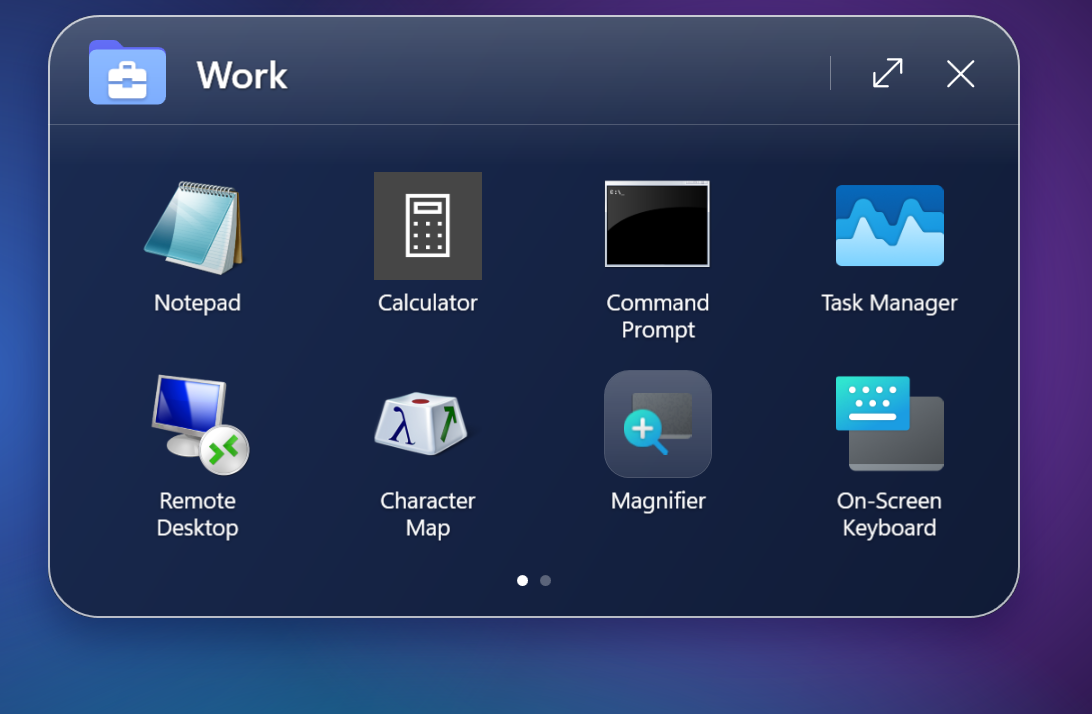
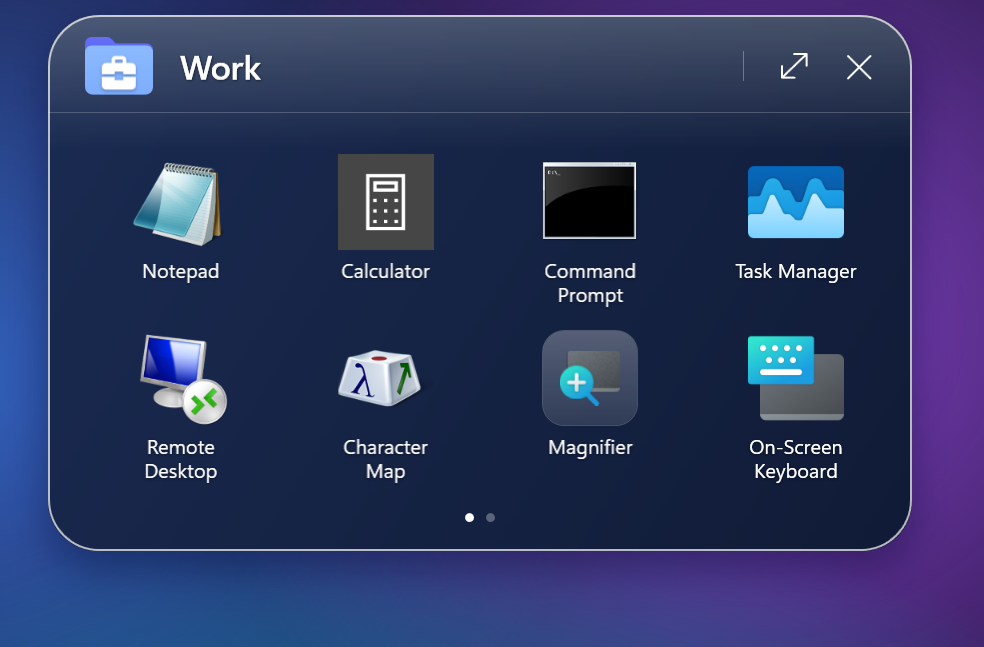
feat: popup at 80% and desktop folders at 52 px, screenshots retaken

diff --git a/tests/GlassFolders.Core.Tests/Layout/DesktopGridTests.cs b/tests/GlassFolders.Core.Tests/Layout/DesktopGridTests.cs
@@ -130,8 +130,8 @@ public class FolderTileMetricsTests
     {
         var m = FolderTileMetrics.For(Models.FolderSize.Medium, CellW, CellH);
 
-        Assert.Equal(58, m.IconWidth);
-        Assert.Equal(48.9, m.IconHeight);
+        Assert.Equal(52, m.IconWidth);
+        Assert.Equal(43.9, m.IconHeight);
         Assert.True(m.BoxWidth <= CellW, $"box {m.BoxWidth} wide");
         Assert.True(m.BoxHeight <= CellH, $"box {m.BoxHeight} tall");
     }
@@ -140,9 +140,9 @@ public class FolderTileMetricsTests
     public void PlateIsTheReferenceSizeWhenThereIsRoom()
     {
         var m = FolderTileMetrics.For(Models.FolderSize.Medium, 120, 110);
-        double scale = 58 / 64.0;
-        Assert.Equal((Math.Round(142 * scale), Math.Round(115 * scale)), (m.PlateWidth, m.PlateHeight));
-        Assert.Equal((Math.Round(142 * scale) + 40, Math.Round(115 * scale) + 40), (m.WindowWidth, m.WindowHeight));
+        double scale = 52 / 64.0;
+        Assert.Equal((Math.Max(Math.Round(142 * scale), m.BoxWidth + 8), Math.Round(115 * scale)), (m.PlateWidth, m.PlateHeight));
+        Assert.Equal((m.PlateWidth + 40, m.PlateHeight + 40), (m.WindowWidth, m.WindowHeight));
     }
 
     [Fact]
@@ -150,7 +150,7 @@ public class FolderTileMetricsTests
     {
         var m = FolderTileMetrics.For(Models.FolderSize.Medium, CellW, CellH);
         Assert.Equal(CellW + FolderTileMetrics.PlateReachX, m.PlateWidth);
-        Assert.Equal(Math.Round(115 * 58 / 64.0), m.PlateHeight);
+        Assert.Equal(Math.Round(115 * 52 / 64.0), m.PlateHeight);
     }
 
     [Fact]
@@ -163,8 +163,7 @@ public class FolderTileMetricsTests
         Assert.True(s.IconWidth < m.IconWidth && m.IconWidth < l.IconWidth);
         Assert.True(s.LabelFontSize < m.LabelFontSize && m.LabelFontSize < l.LabelFontSize);
         Assert.True(s.BoxHeight < m.BoxHeight && m.BoxHeight < l.BoxHeight);
-        // A large folder needs two rows on this grid; the plate is never smaller than the box it holds.
-        Assert.True(l.BoxHeight > CellH);
+        // The plate is never smaller than the box it holds.
         Assert.True(l.PlateWidth >= l.BoxWidth && l.PlateHeight >= l.BoxHeight);
     }
 }

diff --git a/src/GlassFolders.Core/Layout/FolderTileMetrics.cs b/src/GlassFolders.Core/Layout/FolderTileMetrics.cs
@@ -39,9 +39,9 @@ public readonly record struct FolderTileMetrics(
 
     public static double IconSizeFor(FolderSize size) => size switch
     {
-        FolderSize.Small => 44,
-        FolderSize.Large => 72,
-        _ => 58,
+        FolderSize.Small => 40,
+        FolderSize.Large => 64,
+        _ => 52,
     };
 
     public static double ScaleFor(FolderSize size) => IconSizeFor(size) / 64.0;
@@ -51,7 +51,7 @@ public readonly record struct FolderTileMetrics(
     {
         double icon = IconSizeFor(size);
         double iconHeight = Math.Round(icon * ArtAspect, 1);
-        double font = size switch { FolderSize.Small => 12.5, FolderSize.Large => 15.5, _ => 14 };
+        double font = size switch { FolderSize.Small => 11.5, FolderSize.Large => 14, _ => 12.5 };
         double line = Math.Ceiling(font * 1.34);
 
         // Labels are as wide as a grid cell, like Windows' own, but never narrower than the art.

diff --git a/src/GlassFolders.Core/Popup/PopupLayout.cs b/src/GlassFolders.Core/Popup/PopupLayout.cs
@@ -34,7 +34,7 @@ public static class PopupMetrics
     public const double CellHeight = 176;
 
     /// <summary>The popup is drawn this much of the reference size, so it sits more lightly on the desktop.</summary>
-    public const double SizeScale = 0.9;
+    public const double SizeScale = 0.8;
 
     public static double CardWidth(int columns) => GridLeft + columns * CellWidth + GridRight;
 

diff --git a/DEVLOG.md b/DEVLOG.md
@@ -243,7 +243,7 @@ Branch `main`.
 
 - `tools/ScreenshotCapture` rewritten: neutral drawn wallpaper window, real `FolderTile`, `FolderPopup`, `SettingsWindow` and `FolderEditorDialog` on it, pixels read from the screen. Six images replace the old off-screen renders in `docs/screenshots`. The popup crop is clamped to the monitor.
 - Sample folders use Windows' own programs, after the first run showed warning badges on programs this PC doesn't have.
-- Owner said the look was too big: popup scaled to 0.9 (`PopupMetrics.SizeScale`), folder art 64 to 58 px, labels 15.5 to 14. Folder boxes still fit one desktop cell. Screenshots retaken.
+- Owner said the look was too big: popup scaled to 0.9, then 0.8 on a second request (`PopupMetrics.SizeScale`), folder art 64 to 52 px, labels 15.5 to 12.5. Folder boxes still fit one desktop cell. Screenshots retaken.
 - Version set to 1.1.0 (props, installer). README status, gallery note, CHANGELOG, KNOWN-ISSUES (untested list) and ARCHITECTURE updated.
 - Checked by eye: no personal data in any image (sandbox config, no desktop icons, taskbar left out).
 - Not done: the installer build and test, and the release. The release waits for the owner's approval of the look.

diff --git a/CHANGELOG.md b/CHANGELOG.md
@@ -10,7 +10,7 @@ and this project adheres to [Semantic Versioning](https://semver.org/spec/v2.0.0
 ## [Unreleased]
 
 ### Changed (size)
-- **Smaller:** the popup is drawn at 90 % of the reference size (about 778 × 482 DIP) and desktop folders at 58 px, down from 64, with the labels scaled to match. Screens too small for the card still shrink it further.
+- **Smaller:** the popup is drawn at 80 % of the reference size (about 691 × 429 DIP) and desktop folders at 52 px, down from 64, with the labels scaled to match. Screens too small for the card still shrink it further.
 
 ### Added
 - **Screenshot tool:** `tools/ScreenshotCapture` now takes real on-screen captures. It draws a neutral wallpaper full screen, opens the real popup, Settings and folder editor on it and reads the screen back, so the glass in the README is the app's real glass. It uses Windows' own programs for the sample items, so no icon shows a missing badge.
